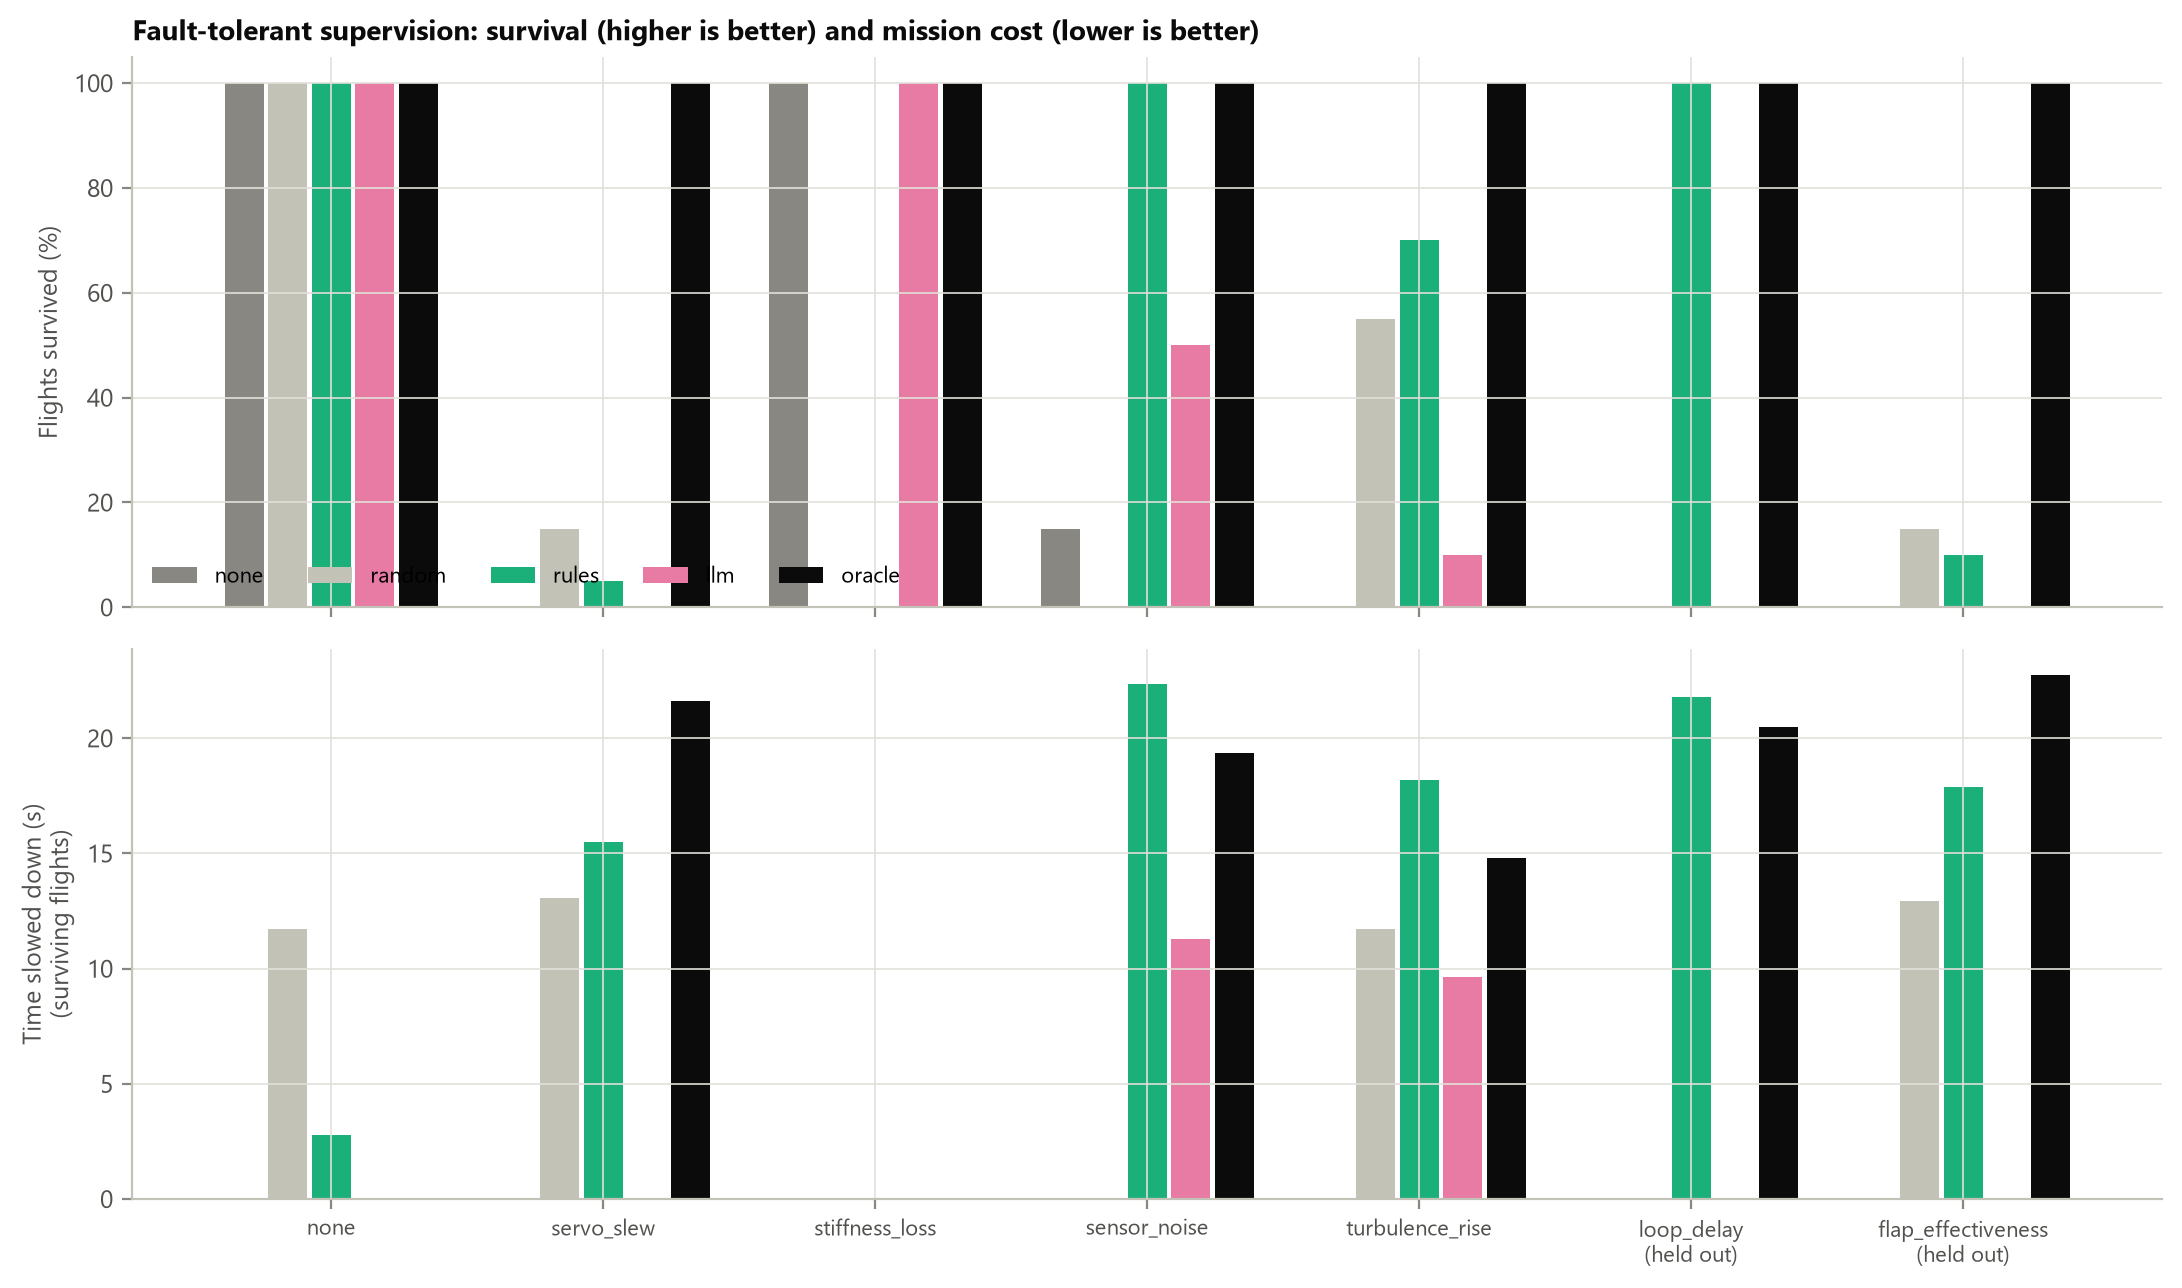
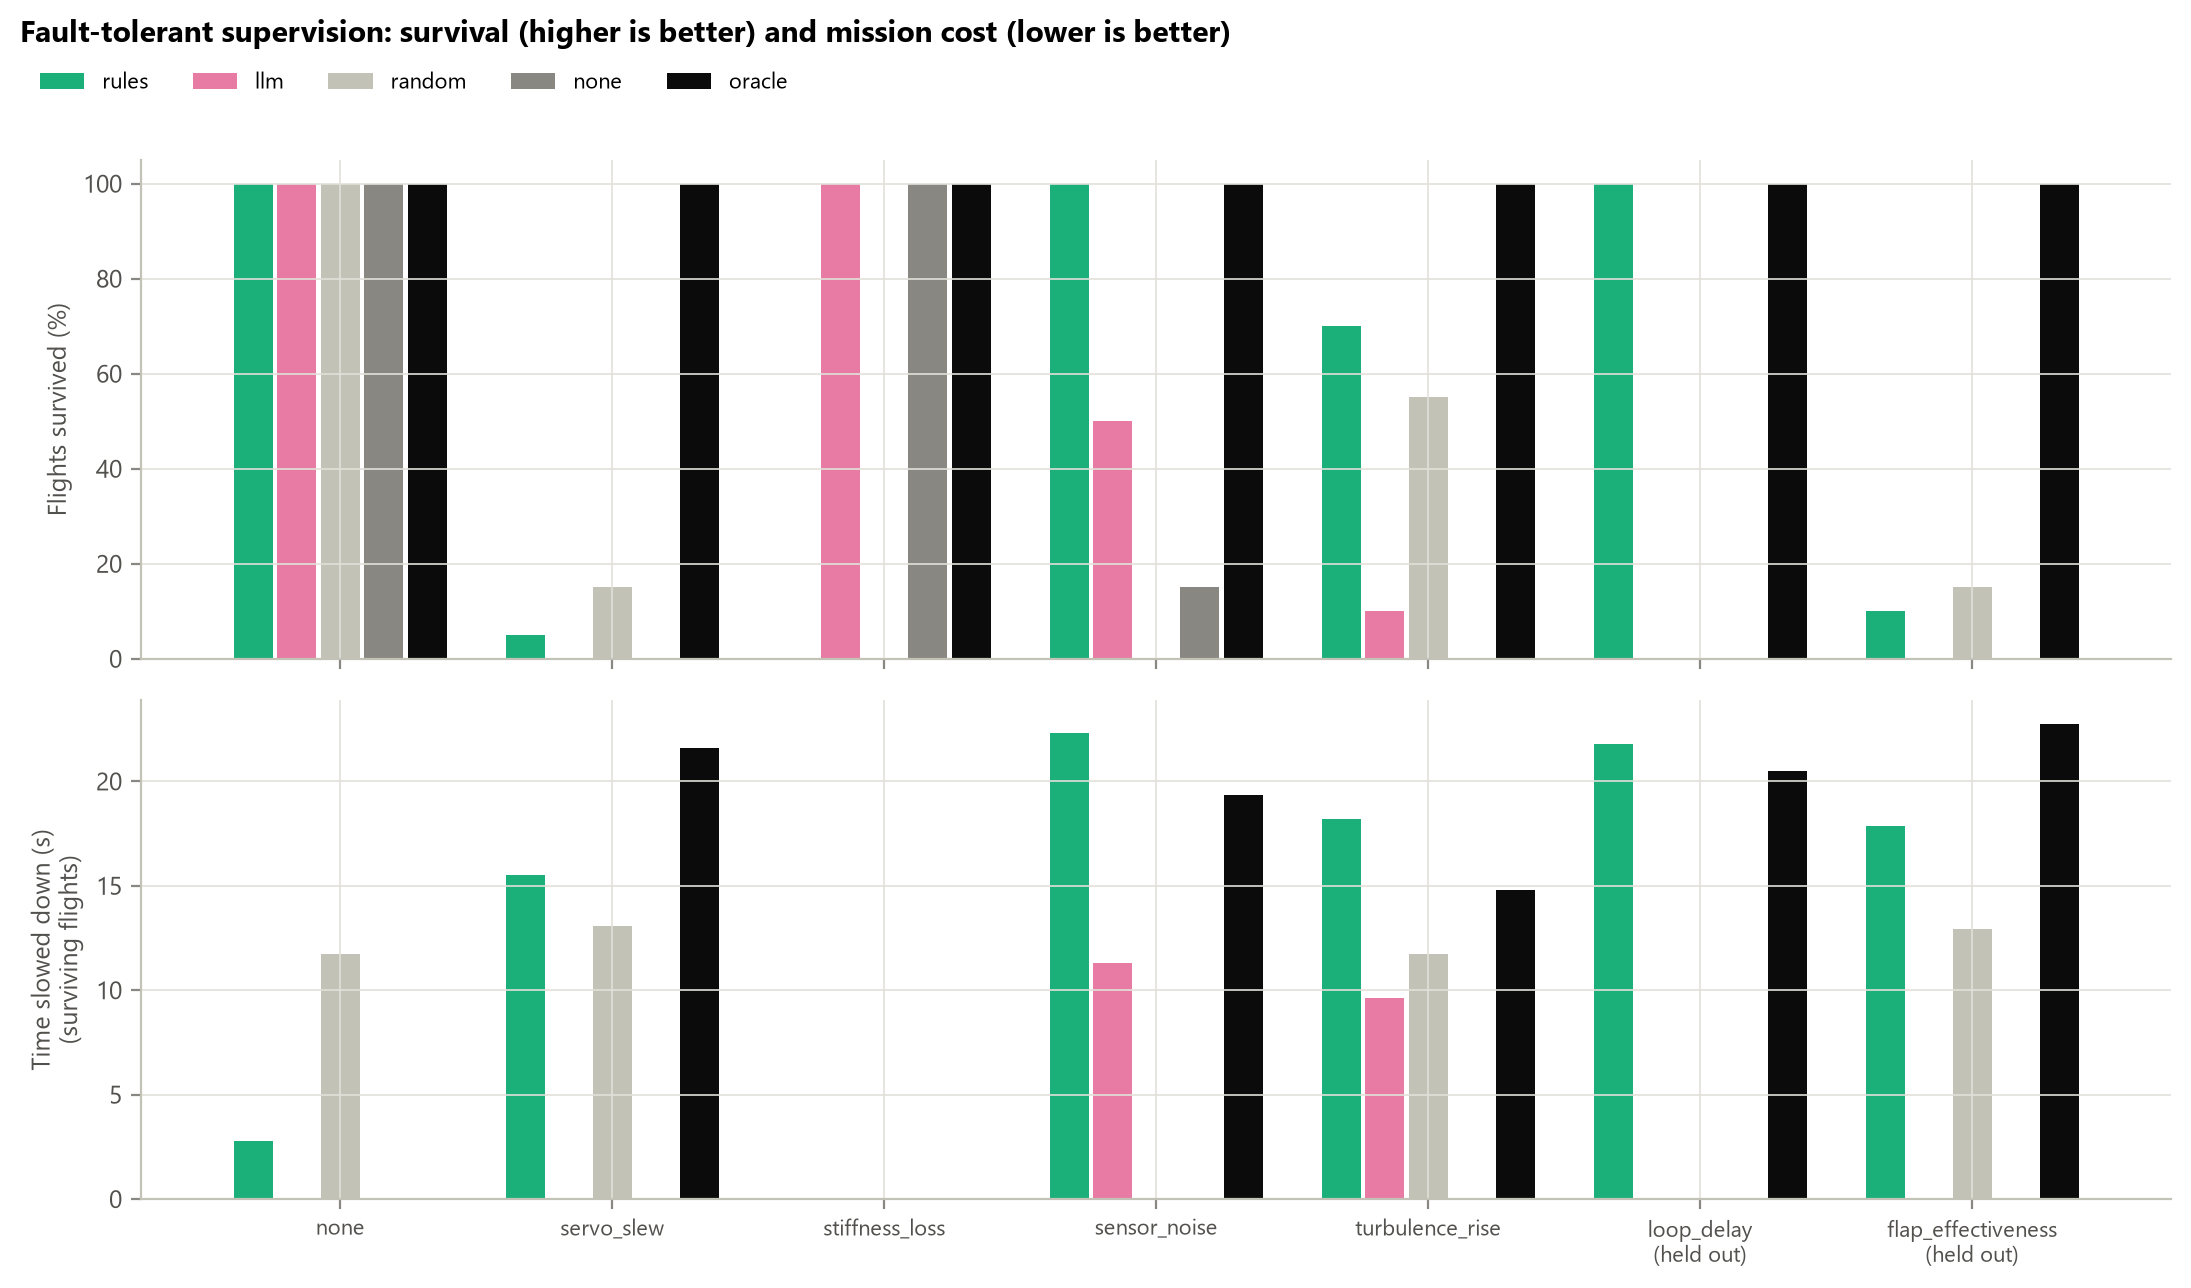
Guardian view fixes found in a browser check; main fault-tolerance figure redrawn
- The progress block stayed visible after a flight: its CSS display: flex overrode the hidden
  attribute (same fix as .kpi[hidden]).
- The note under the mode cards described estimator v1 (blind to saturation, delay, turbulence)
  on guardian flights, which use v2; it now follows the flight's estimator version.
- fig12 (seeds 0-19) redrawn with the fixed plot code (legend above the axes) and copied into
  the paper's figures; no result changed.
- Memory: the Guardian view has now been checked in Chrome.

diff --git a/frontend/js/guardian.js b/frontend/js/guardian.js
@@ -341,6 +341,13 @@ function loadFlight(F) {
   const pad = Math.max(1, 0.08 * (hi - lo));
   F._gauge = [lo - pad, hi + pad];
 
+  $("lights-note").textContent = F.estimator_version === 2
+    ? "On-board prediction (estimator v2): spectral radius ρ of each mode's closed loop on the identified wing (ρ < 1 " +
+      "stable) and the flap's authority (3σ command or rate over its limit; ≥ 1: saturation expected), with the measured " +
+      "loop delay and turbulence. The guardian admits a mode only if it is stable and has enough authority where the wing " +
+      "needs control. Still linear: it predicts saturation, not what the saturated loop then does."
+    : "On-board prediction: spectral radius ρ of each mode's closed loop on the identified wing, worst case on the way to " +
+      "that mode's airspeed (ρ < 1 stable). Linear: it cannot see actuator, sensor, timing or turbulence faults, nor saturation.";
   state.flight = F;
   state.keys = {};
   state.lane = {

diff --git a/frontend/guardian.html b/frontend/guardian.html
@@ -181,7 +181,7 @@
           <span class="hint" id="lights-time"></span>
         </div>
         <div class="lights" id="lights"></div>
-        <p class="hint">On-board prediction: spectral radius ρ of each mode's closed loop on the identified wing, worst case on the way to that mode's airspeed (ρ &lt; 1 stable). Linear: it cannot see actuator, sensor, timing or turbulence faults, nor saturation.</p>
+        <p class="hint" id="lights-note">On-board prediction: spectral radius ρ of each mode's closed loop on the identified wing, worst case on the way to that mode's airspeed (ρ &lt; 1 stable). Linear: it cannot see actuator, sensor, timing or turbulence faults, nor saturation.</p>
       </section>
 
       <div class="g-two">

diff --git a/frontend/css/guardian.css b/frontend/css/guardian.css
@@ -13,6 +13,7 @@ code { font-size: 12px; background: var(--surface-2); padding: 0 4px; border-rad
 
 /* ---- progress ------------------------------------------------------------ */
 .progress { display: flex; flex-direction: column; gap: 6px; }
+.progress[hidden] { display: none; } /* display: flex above would otherwise override the hidden attribute */
 .progress-track { height: 6px; border-radius: 3px; background: var(--surface-2); overflow: hidden; }
 .progress-fill { height: 100%; width: 0; background: var(--ink); transition: width 0.3s; }
 

diff --git a/docs/Memory.md b/docs/Memory.md
@@ -504,10 +504,12 @@ Faults the rejected answers named: servo_slew 4, none 1.
   six pieces ran on 2026-09-30. The metadata's `generated_at` is the first piece's; `pieces` lists each.
 - Memory: with Chrome and VS Code open, llama-server (~5 GB mapped) and experiments leave < 1 GB free on this 16 GB
   laptop. Run LLM experiments one at a time and close other apps for long runs.
-- Guardian view: not yet looked at in a real browser (no browser in the build session; the JS was exercised in Node
-  with a stub DOM against real recordings, and the pages/endpoints were fetched from a running server). Recordings
-  live in server memory only (lost on restart). No LLM supervisor there by design; adding one would need the call
-  budget and a busy-GPU guard. A 30 s physics-supervised flight takes minutes of CPU while experiments run.
+- Guardian view: checked in Chrome on 2026-09-30 with a guardian flight (stiffness loss, seed 1000: records in ~11 s,
+  plays back, per-mode admitted/vetoed cards, v2 worst case and turbulence, no console errors). Two bugs found and
+  fixed there: the progress block ignored `hidden` (CSS `display: flex`), and the note under the mode cards described
+  estimator v1 on v2 flights. Recordings live in server memory only (lost on restart). No LLM supervisor there by
+  design; adding one would need the call budget and a busy-GPU guard. A 30 s physics-supervised flight takes tens of
+  seconds of CPU, longer while experiments run.
 - The observer's aero-lag estimate lags about half a step; that is fine, but it is part of the loop.
 - `pytest` takes ~2 min (flutter sweeps); make the slow ones optional if needed.
 - Novelty (search 2026-09-29, full texts checked where openly available; `research/related-work.md`): neural

diff --git a/docs/research/paper-draft.md b/docs/research/paper-draft.md
@@ -1,6 +1,6 @@
 # On-board language-model supervision for active flutter suppression: a fair benchmark with fault tolerance and a dwell-time guarantee
 
-*Draft generated 2026-09-30T16:26+00:00 by `python -m flutter_ai paper` (flutter_ai 0.3.0, commit 55ae22b). Numbers and comparisons are computed from the result files; edit the prose in `src/flutter_ai/paper.py`, never the numbers here. Author list, affiliations and target venue: to be decided by the owner (see `submission-checklist.md`).*
+*Draft generated 2026-09-30T17:06+00:00 by `python -m flutter_ai paper` (flutter_ai 0.3.0, commit abcf8a2). Numbers and comparisons are computed from the result files; edit the prose in `src/flutter_ai/paper.py`, never the numbers here. Author list, affiliations and target venue: to be decided by the owner (see `submission-checklist.md`).*
 
 ## Abstract
 
@@ -340,7 +340,7 @@ On a validated, realistic flutter-suppression benchmark with fair baselines, a n
 
 ## Reproducibility
 
-Code: flutter_ai 0.3.0, commit 55ae22b. Commands: `tune`, `evaluate`, `robustness`, `ablations`, `llm-benchmark`, `ft-benchmark`, `ft-stability`, `validate`, then `paper`. Model files:
+Code: flutter_ai 0.3.0, commit abcf8a2. Commands: `tune`, `evaluate`, `robustness`, `ablations`, `llm-benchmark`, `ft-benchmark`, `ft-stability`, `validate`, then `paper`. Model files:
 - `classical_tuning_bact.json` sha256 2b61fe0c2922
 - `classical_tuning_uav_flap.json` sha256 1a8c2ed52e6e
 - `classical_tuning_uav_section.json` sha256 328f9c1df71b
